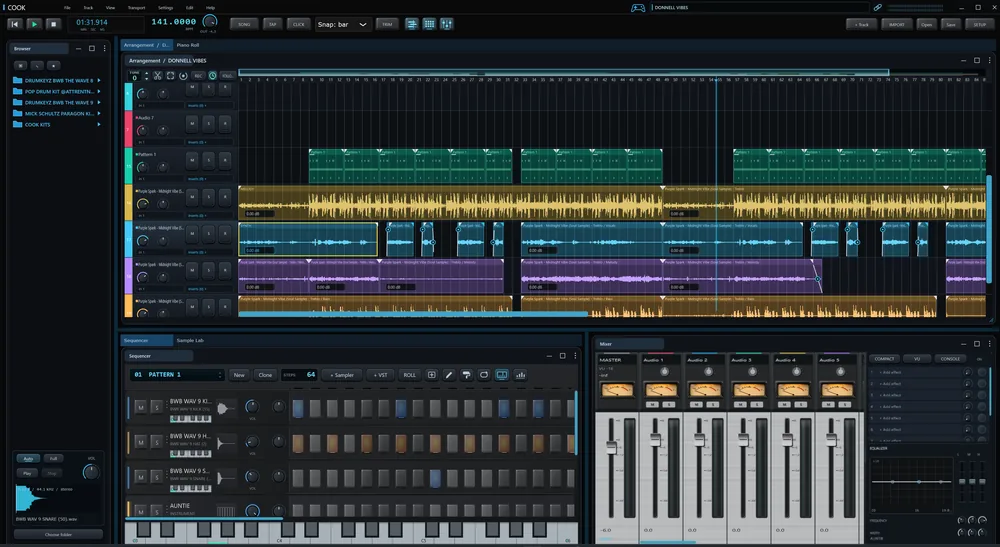
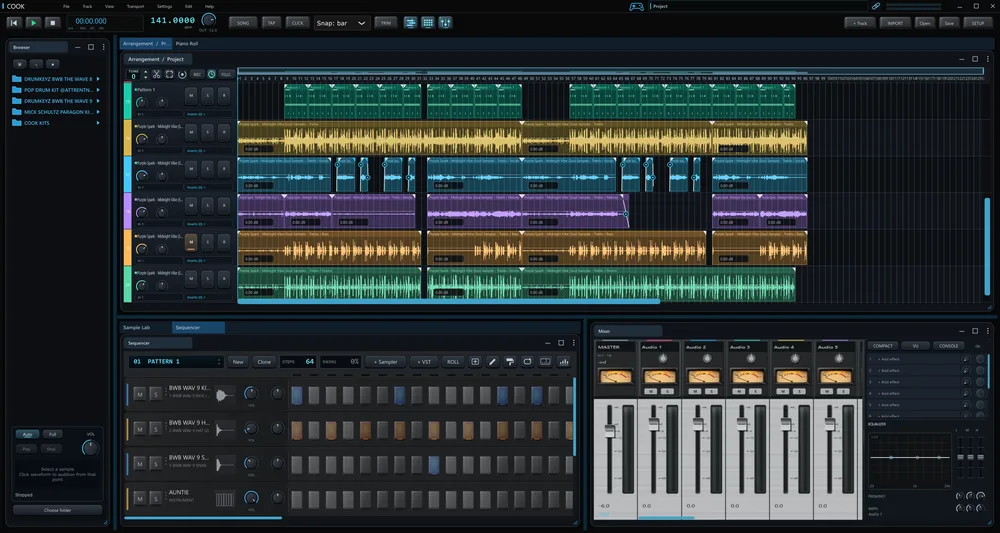
Update the COOK site

diff --git a/index.html b/index.html
@@ -36,7 +36,7 @@
         </div>
         <img class="hero-flame" src="./assets/cook-flame.png" width="1254" height="1254" fetchpriority="high" alt="" decoding="async">
       </section>
-      <img class="shot shot-full" src="./assets/shot-full.webp" srcset="./assets/shot-full-1000.webp 1000w, ./assets/shot-full.webp 2000w" sizes="(max-width:1720px) 92vw, 1560px" width="2000" height="1093" decoding="async" alt="The full COOK window: arrangement with audio and pattern tracks, the step sequencer, and the console mixer">
+      <img class="shot shot-full" src="./assets/shot-full.webp?v=20" srcset="./assets/shot-full-1000.webp?v=20 1000w, ./assets/shot-full.webp?v=20 2000w" sizes="(max-width:1720px) 92vw, 1560px" width="2000" height="1066" decoding="async" alt="The full COOK window: arrangement with audio and pattern tracks, the step sequencer, and the console mixer">
       <div class="cta">
         <a class="download" id="download" href="https://downloads.cookaudio.app/COOK-Beta-20-Windows-x64-Full.exe">
           <svg width="18" height="18" viewBox="0 0 20 20" fill="currentColor" aria-hidden="true"><path d="M1 1h8v8H1zm10 0h8v8h-8zM1 11h8v8H1zm10 0h8v8h-8z"/></svg>
